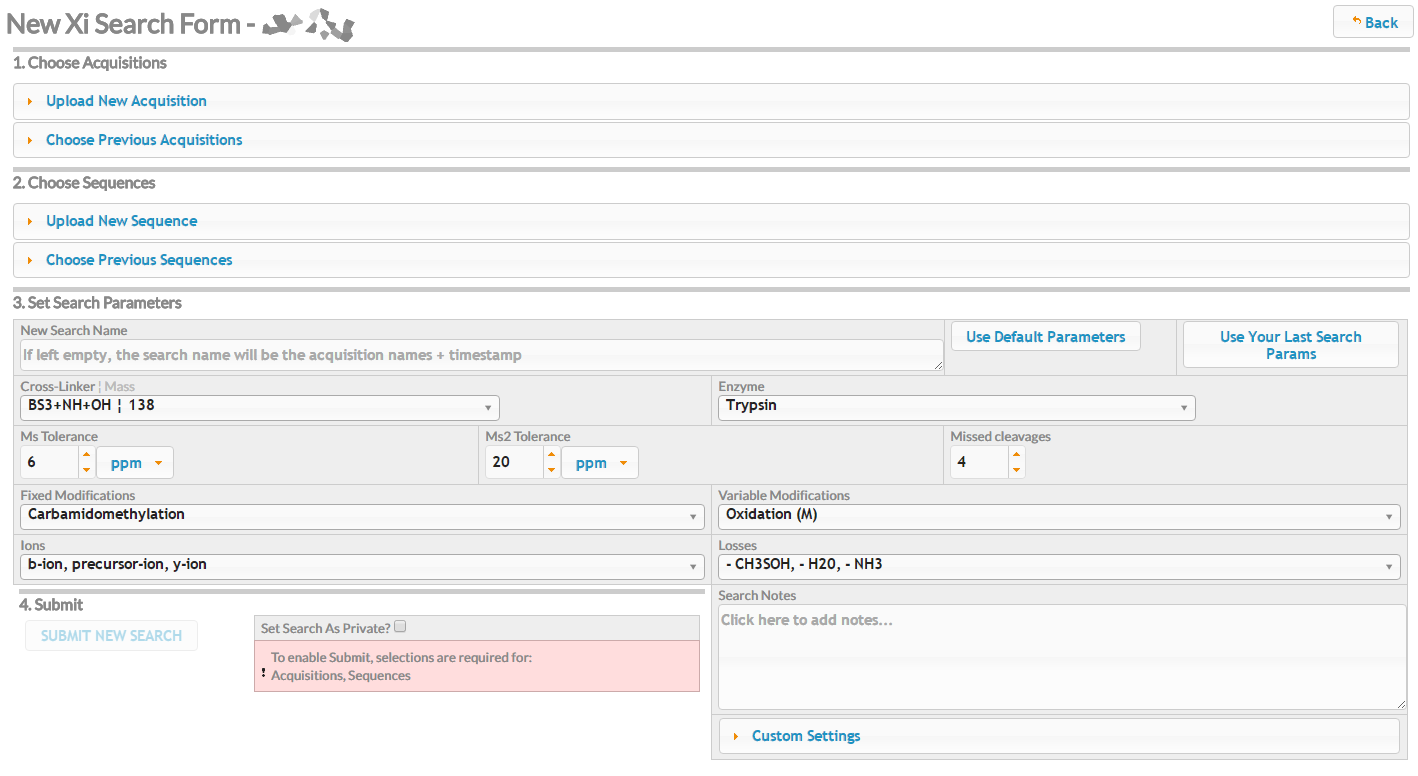
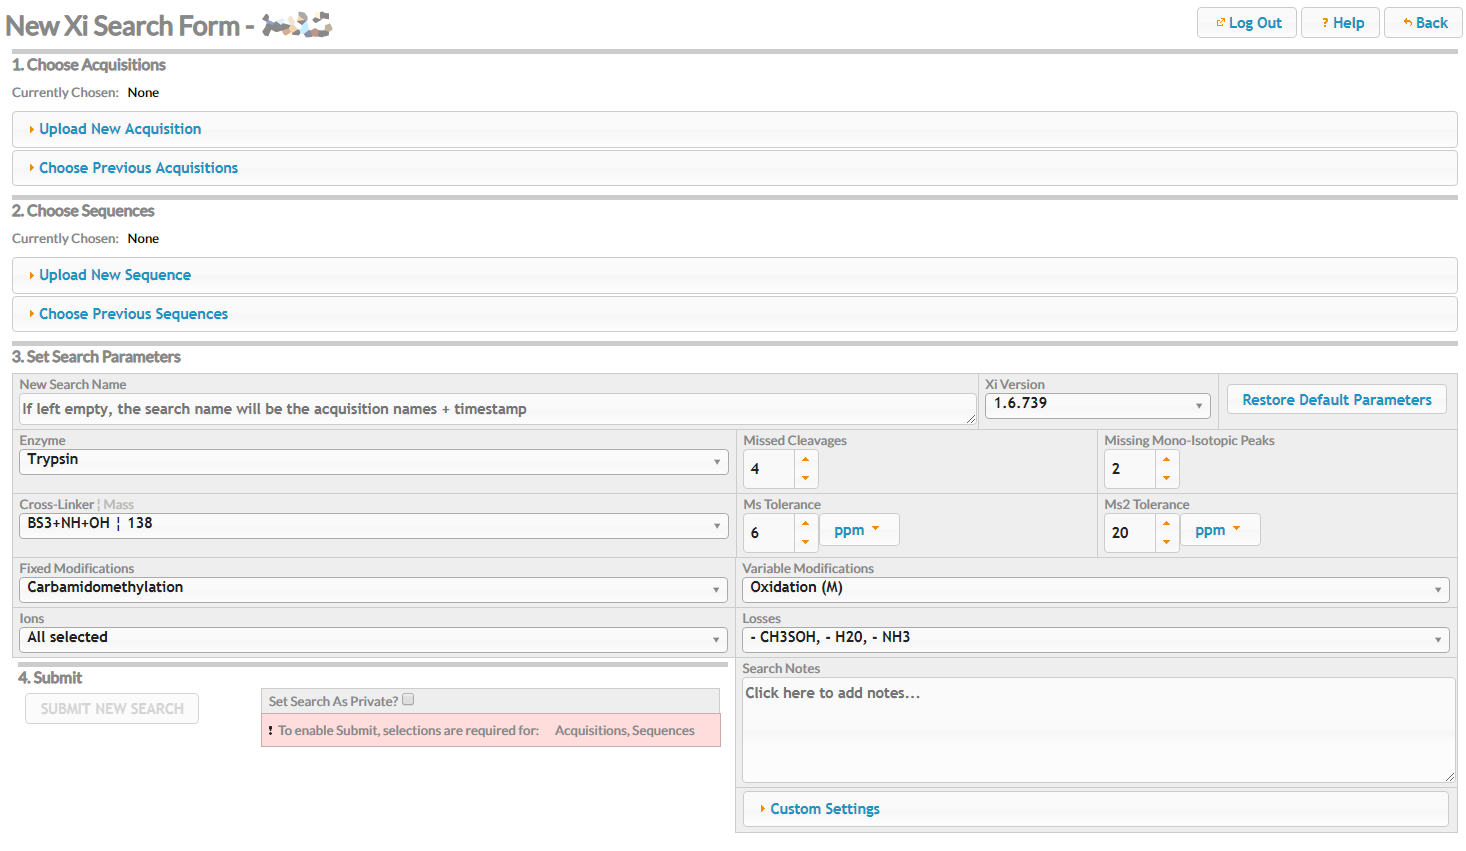
Add mono-isotopic description to search submit page

diff --git a/html/searchSubmit/index.html b/html/searchSubmit/index.html
@@ -6,6 +6,7 @@
 <style type="text/css">
 @import url("../../docs.css");
 @import url("../docs.css");
+@import url ("/xidocs/docs.css");
 </style>
 </head>
 <body>
@@ -49,6 +50,7 @@
 <li>Ms Tolerance</li>
 <li>Ms2 Tolerance</li>
 <li>Missed Cleavages</li>
+<li>Missing Mono-Isotopic Peaks</li>
 <li>Fixed Modifications</li>
 <li>Variable Modifications</li>
 <li>Ions</li>
@@ -62,7 +64,8 @@
 <li>Alternatively, press the &quot;Construct Sequential Digestion&quot; button in the dropdown to make a digestion composed of more than one enzyme. Here, add new steps with the &quot;Add New Digestion Step&quot; button and then choose the enzyme for that step through a drop-down. Set local Missed Cleavages settings by checking the &quot;Local MC&quot; checkbox for the step and entering a value in the revealed number input - if unset, that step will use the global Missed Cleavages setting. Steps can be deleted (if more than one) by pressing the button marked with an 'X', and reordered by dragging the 'double-arrow' icons. &quot;Revert to Single Enzyme Choice&quot; will return to the single enzyme selection state.</li>
 </ul>
 <p><em>Ms Tolerance</em> and <em>Ms2 Tolerance</em> are numeric inputs and also have a choice of units (parts per million or Daltons).</p>
-<p><em>Missed cleavages</em> is a numeric input with no units.</p>
+<p><em>Missed cleavages</em> is a numeric input with no units and a default value of 4.</p>
+<p><em>Missing Mono-Isotopic Peaks</em> is a numeric input with no units and a default value of 2.</p>
 <p><em>Fixed Modifications</em>, <em>Variable Modifications</em>, <em>Ions</em> and <em>Losses</em> are all parameters for which multiple choices can be made. Select as many options as the search requires using the checkboxes in each parameters' drop-down menu. <em>Ions</em> has the extra restriction that at least one of the options must be chosen.</p>
 <p><em>Search Notes</em> can be used to add more information about the search, useful as a memory aid for later. The <em>Custom Settings</em> textbox is really only used by the Xi Database Admin to set custom flags to a search, and not intended for general use.</p>
 <p>To reduce user input fatigue a set of sensible defaults are displayed, so you only need to change the ones that are unsuitable for your new search. These defaults can be restored using the <em>Use Default Parameters</em> button. The parameters from your last search can be reapplied using the <em>Use Your Last Search Params</em> button.</p>

diff --git a/docs.css b/docs.css
@@ -8,8 +8,12 @@ html {
 	columns: 25em 3;
 	column-rule: 1px solid #ccc;
 	column-gap: 2em;
-	column-fill: balance;
+	column-fill: auto;
 	background: #eee;
+    box-sizing: border-box;
+    height: calc(100% - 16px - 1em);
+    widows: 2;
+    orphans: 2;
 }
 
 html::before {

diff --git a/md/searchSubmit/index.md b/md/searchSubmit/index.md
@@ -47,6 +47,7 @@ This step involves setting the following parameters for the new search:
 * Ms Tolerance
 * Ms2 Tolerance
 * Missed Cleavages
+* Missing Mono-Isotopic Peaks
 * Fixed Modifications
 * Variable Modifications
 * Ions
@@ -63,7 +64,9 @@ This step involves setting the following parameters for the new search:
 
 *Ms Tolerance* and *Ms2 Tolerance* are numeric inputs and also have a choice of units (parts per million or Daltons).
 
-*Missed cleavages* is a numeric input with no units.
+*Missed cleavages* is a numeric input with no units and a default value of 4.
+
+*Missing Mono-Isotopic Peaks* is a numeric input with no units and a default value of 2.
 
 *Fixed Modifications*, *Variable Modifications*, *Ions* and *Losses* are all parameters for which multiple choices can be made. Select as many options as the search requires using the checkboxes in each parameters' drop-down menu. *Ions* has the extra restriction that at least one of the options must be chosen.
 
